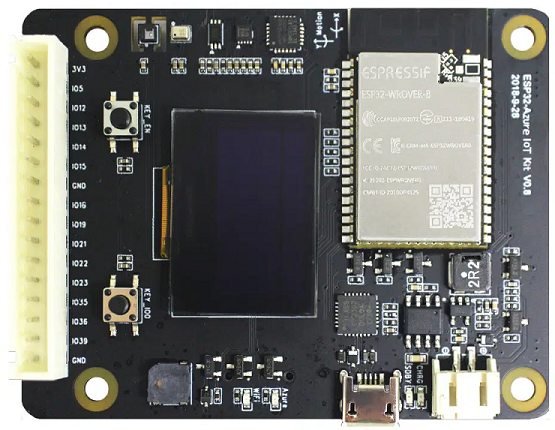
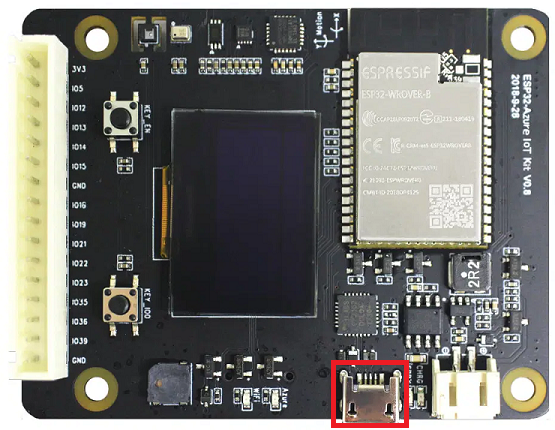
update image, small markdown fixes

Changed region(s): [[0.582, 0.8163, 0.7351, 0.9977]]

diff --git a/demos/projects/ESPRESSIF/aziotkit/GSG.md b/demos/projects/ESPRESSIF/aziotkit/GSG.md
@@ -13,12 +13,12 @@ products:
 
 **Total completion time**:  30 minutes
 
-In this tutorial you use the Azure FreeRTOS Middleware to connect the ESPRESSIF [ESP32-Azure IoT Kit](https://www.espressif.com/products/devkits/esp32-azure-kit/overview) (hereafter, the ESP DevKit) to Azure IoT. The article is part of the series [IoT Device Development](https://go.microsoft.com/fwlink/p/?linkid=2129824). The series introduces device developers to the Azure FreeRTOS Middleware, and shows how to connect several device evaluation kits to Azure IoT.
+In this tutorial you use the Azure FreeRTOS Middleware to connect the ESPRESSIF [ESP32-Azure IoT Kit](https://www.espressif.com/products/devkits/esp32-azure-kit/overview) (hereafter, the ESP32 DevKit) to Azure IoT. The article is part of the series [IoT Device Development](https://go.microsoft.com/fwlink/p/?linkid=2129824). The series introduces device developers to the Azure FreeRTOS Middleware, and shows how to connect several device evaluation kits to Azure IoT.
 
 You will complete the following tasks:
 
 * Install the embedded development tools
-* Build the image and flash it onto the ESP DevKit
+* Build the image and flash it onto the ESP32 DevKit
 * Use Azure IoT Central to create cloud components, view properties, view device telemetry, and call direct commands
 
 ## Prerequisites
@@ -51,6 +51,7 @@ This project is build using the [ESP-IDF](https://docs.espressif.com/projects/es
 There are several ways to connect devices to Azure IoT. In this section, you learn how to connect a device by using Azure IoT Central. IoT Central is an IoT application platform that reduces the cost and complexity of creating and managing IoT solutions.
 
 To create a new application:
+
 1. From [Azure IoT Central portal](https://apps.azureiotcentral.com/), select **My apps** on the side navigation menu.
 1. Select **+ New application**.
 1. Select **Custom apps**.
@@ -69,6 +70,7 @@ To create a new application:
 In this section, you use the IoT Central application dashboard to create a new device. You will use the connection information for the newly created device to securely connect your physical device in a later section.
 
 To create a device:
+
 1. From the application dashboard, select **Devices** on the side navigation menu.
 1. Select **+ New** to bring up the **Create a new device** window.
 1. Leave Device template as **Unassigned**.
@@ -103,6 +105,7 @@ From this point, all commands are launched from with the ESP-IDF command line. T
 Clone the following repo to download all sample device code. If you previously cloned this repo in another tutorial, you don't need to do it again.
 
 Using the ESP-IDF Powershell:
+
 1. Navigate to a directory where you wish to clone the repo.
 
 1. Clone the repo with the following command:
@@ -114,6 +117,7 @@ Using the ESP-IDF Powershell:
 ### Add configuration
 
 Using the ESP-IDF Powershell:
+
 1. Navigate to the *iot-middleware-freertos-samples* directory that was cloned in the previous steps.
 1. Navigate to the ESP-Azure IoT Kit project directory: *demos\projects\ESPRESSIF\aziotkit*
 1. Execute the following command to launch the configurator:
@@ -162,21 +166,21 @@ $env:IDF_CCACHE_ENABLE=0
 idf.py build
 ```
 
-After the build completes, you can confirm that the binary file was created in the following path:
+After the build completes, you can confirm that the binary file was created with the following path:
 
 > *iot-middleware-freertos-samples\demos\projects\ESPRESSIF\aziotkit\build\azure_iot_freertos_esp32.bin*
 
 ### Flash the image
 
-1. On the ESP DevKit, locate the Micro USB port as highlight in the image below.
+1. On the ESP32 DevKit, locate the Micro USB port as highlight in the image below.
 
-    ![ESP DevKit](media/espressif-esp-azure-iot-kit.png)
+    ![ESP32 DevKit](media/espressif-esp-azure-iot-kit.png)
 
-1. Connect the Micro USB cable to the Micro USB port on the ESP DevKit, and then connect it to your computer.
+1. Connect the Micro USB cable to the Micro USB port on the ESP32 DevKit, and then connect it to your computer.
 
-1. Within the Windows Device Manager, locate the Com Port associated with the ESP device as shown in the image below
+1. Within the **Windows Device Manager**, locate the Com Port associated with the ESP32 DevKit as shown in the image below.
 
-    ![ESP DevKit](media/espressif-device-manager.png)
+    ![Device Manager](media/espressif-device-manager.png)
 
 1. From the ESP-IDF Powershell, execute the following command, substituting the correct COM Port from the previous step  (e.g. **COM3**):
 
@@ -216,6 +220,7 @@ You can use the ESP-IDF monitor tool to observe communication and confirm that y
 ## Verify the device status
 
 To view the device status in IoT Central portal:
+
 1. From the application dashboard, select **Devices** on the side navigation menu.
 1. Check the **Device status** of the device is updated to **Provisioned**.
 1. Check the **Device template** of the device has updated to **Espressif ESP32 Azure IoT Kit**.
@@ -239,6 +244,7 @@ To view telemetry in IoT Central portal:
 You can also use IoT Central to send a command to your device. In this section, you can call a command to toggle LEDs or write to the screen.
 
 To write to the screen:
+
 1. Select the **Command** tab from the device page.
 1. Locate the **Display Text** command.
 1. In the **Content** textbox, enter the text to be displayed on the screen.
@@ -246,6 +252,7 @@ To write to the screen:
 1. The screen on the device will update with the desired text.
 
 To toggle an LED:
+
 1. Select the **Command** tab from the device page.
 1. Locate the **Toggle LED 1** or **Toggle LED 2** command
 1. Select **Run**.
@@ -265,14 +272,16 @@ Select **About** tab from the device page.
 If you no longer need the Azure resources created in this tutorial, you can delete them from the IoT Central portal. Optionally, if you continue to another tutorial in this Getting Started guide, you can keep the resources you've already created and reuse them.
 
 To keep the Azure IoT Central sample application but remove only specific devices:
+
 1. Select the **Devices** tab for your application.
 1. Select the device from the device list.
 1. Select **Delete**.
 
 To remove the entire Azure IoT Central sample application and all its devices and resources:
+
 1. Select **Administration** > **Your application**.
 1. Select **Delete**.
 
 ## Next Steps
 
-In this tutorial you built a custom image that contains Azure FreeRTOS middleware sample code, and then flashed the image to the ESP DevKit device. You also used the IoT Central portal to create Azure resources, connect the ESP DevKit securely to Azure, view telemetry, and send messages.
+In this tutorial you built a custom image that contains the Azure FreeRTOS middleware sample code, and then flashed the image to the ESP32 DevKit device. You also used the IoT Central portal to create Azure resources, connect the ESP32 DevKit securely to Azure, view telemetry, and send messages.
